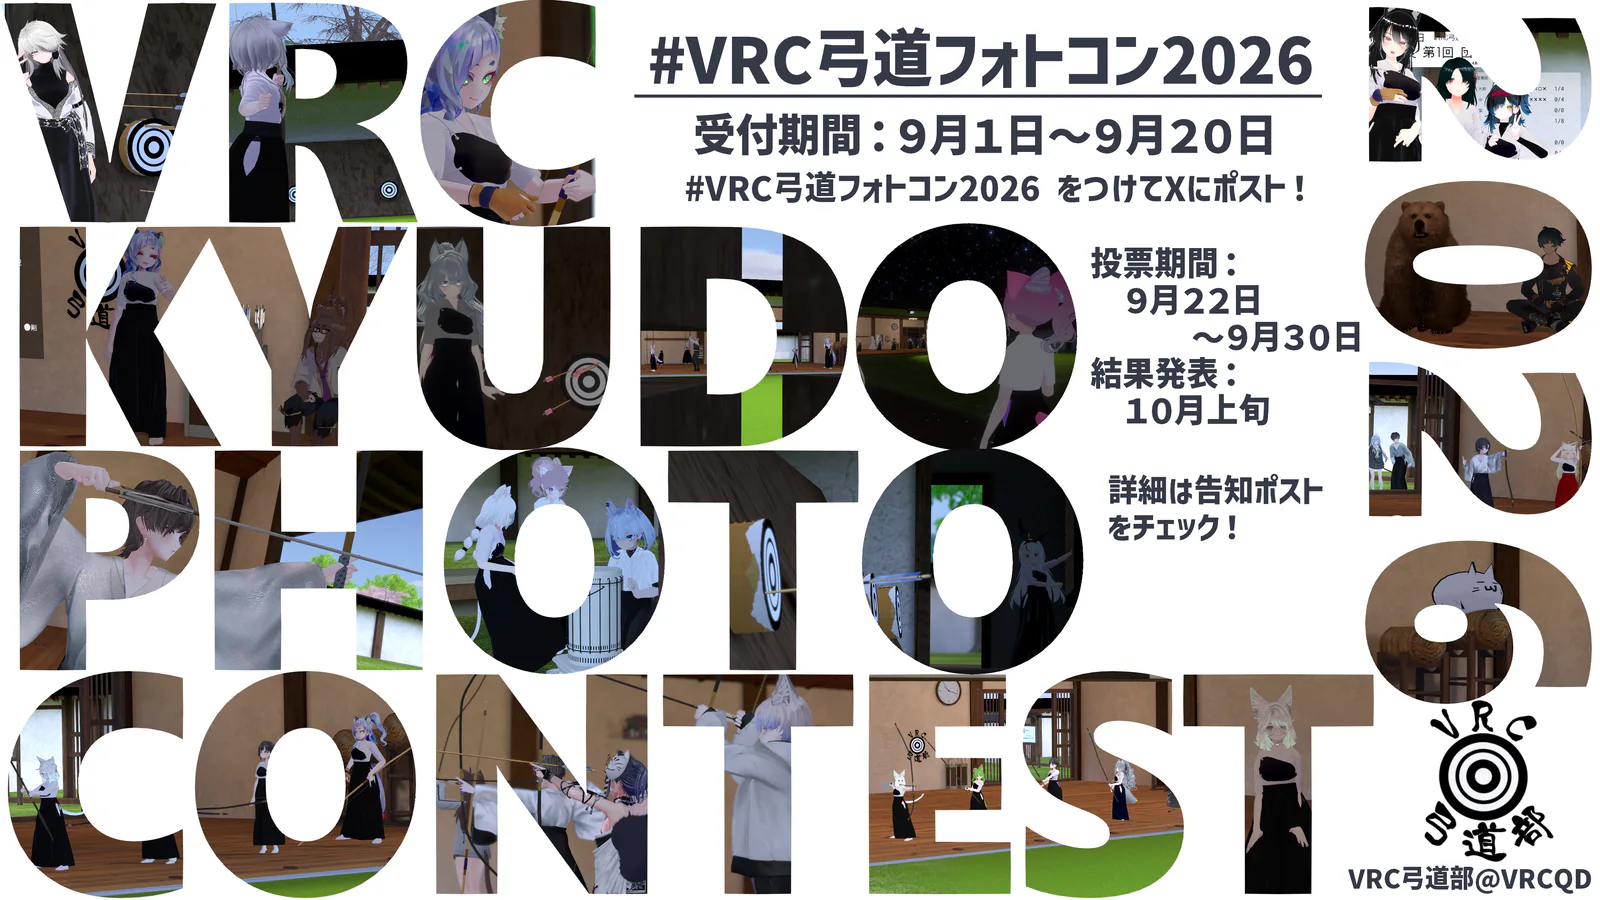
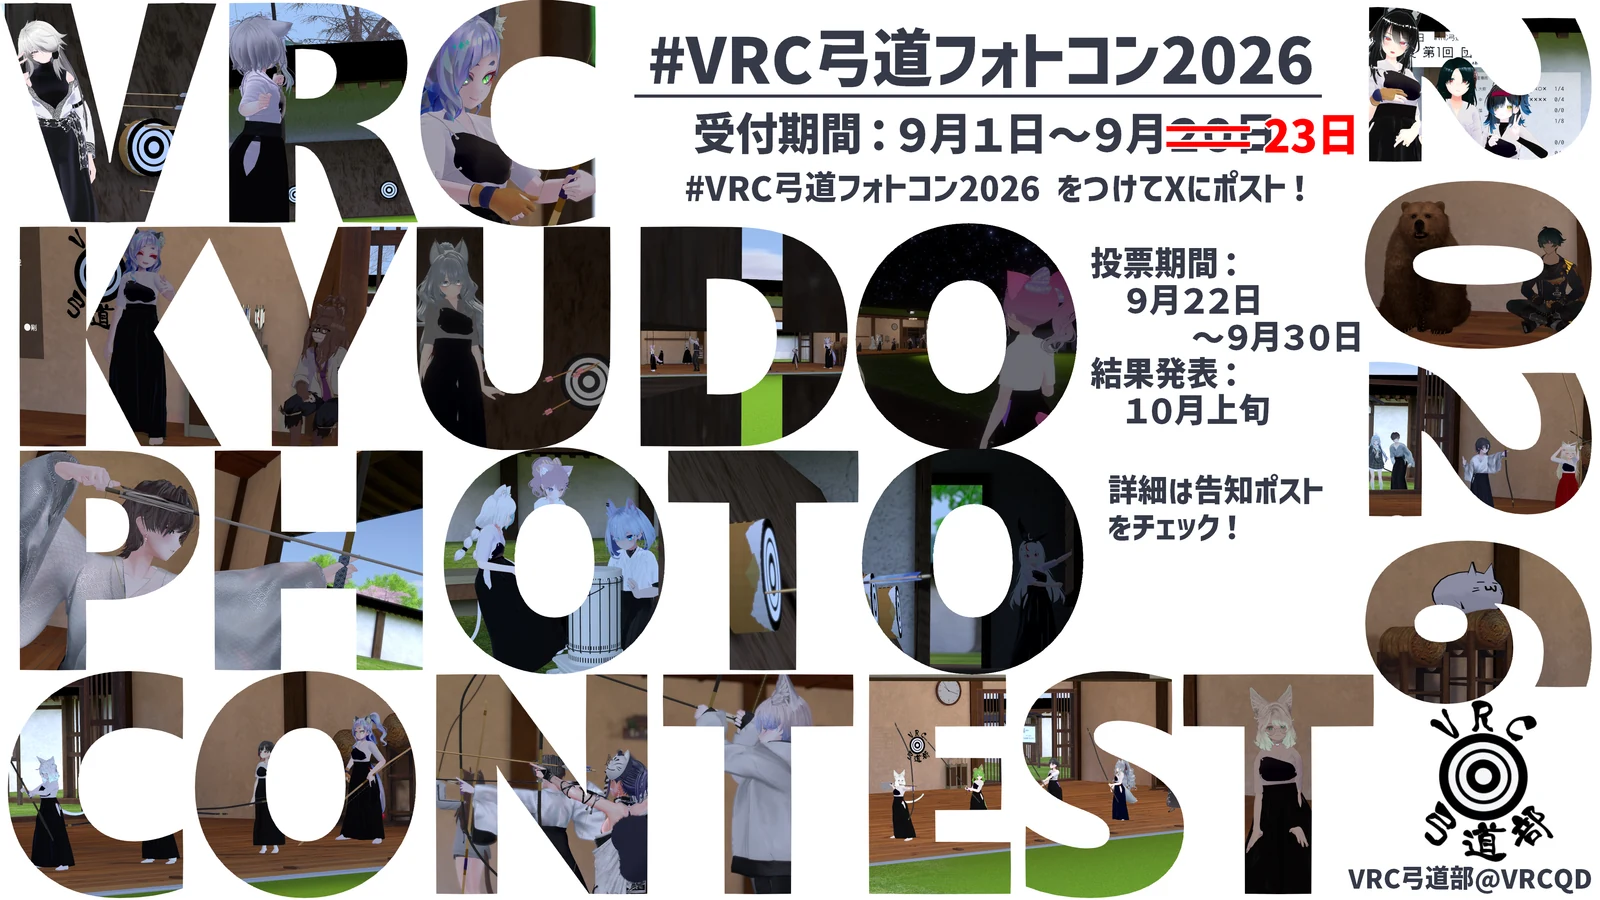
Replace main visual with optimized deadline-extension artwork

Changed region(s): [[0.5625, 0.1244, 0.8438, 0.1867], [0.4375, 0.1244, 0.5312, 0.1867]]

diff --git a/index.html b/index.html
@@ -8,19 +8,19 @@
   <meta property="og:type" content="website">
   <meta property="og:site_name" content="VRC弓道フォトコン2026">
   <meta property="og:title" content="VRC弓道フォトコン2026">
-  <meta property="og:description" content="【9月20日更新】作品受付を9月23日23:59まで延長。投票は9月24日00:10から9月30日まで（日本時間）。告知画像内の日程は変更前です。">
+  <meta property="og:description" content="【9月20日更新】作品受付を9月23日23:59まで延長。投票は9月24日00:10から9月30日まで（日本時間）。告知画像内の投票開始日は変更前です。">
   <meta property="og:url" content="https://puchiryuuvrc.github.io/QDPhoto2026-Pages/">
-  <meta property="og:image" content="https://puchiryuuvrc.github.io/QDPhoto2026-Pages/assets/social-card-2026.jpg">
+  <meta property="og:image" content="https://puchiryuuvrc.github.io/QDPhoto2026-Pages/assets/social-card-2026.jpg?v=20260920-main03">
   <meta property="og:image:type" content="image/jpeg">
   <meta property="og:image:width" content="1200">
   <meta property="og:image:height" content="630">
-  <meta property="og:image:alt" content="VRC弓道フォトコン2026の変更前の告知画像。現在の締切は9月23日23:59、投票開始は9月24日00:10（日本時間）。">
+  <meta property="og:image:alt" content="VRC弓道フォトコン2026の締切延長告知画像。画像内の投票開始日は変更前です。現在の締切は9月23日23:59、投票開始は9月24日00:10（日本時間）。">
   <meta name="twitter:card" content="summary_large_image">
   <meta name="twitter:site" content="@VRCQD">
   <meta name="twitter:title" content="VRC弓道フォトコン2026">
-  <meta name="twitter:description" content="【9月20日更新】作品受付を9月23日23:59まで延長。投票は9月24日00:10から9月30日まで（日本時間）。告知画像内の日程は変更前です。">
-  <meta name="twitter:image" content="https://puchiryuuvrc.github.io/QDPhoto2026-Pages/assets/social-card-2026.jpg">
-  <meta name="twitter:image:alt" content="VRC弓道フォトコン2026の変更前の告知画像。現在の締切は9月23日23:59、投票開始は9月24日00:10（日本時間）。">
+  <meta name="twitter:description" content="【9月20日更新】作品受付を9月23日23:59まで延長。投票は9月24日00:10から9月30日まで（日本時間）。告知画像内の投票開始日は変更前です。">
+  <meta name="twitter:image" content="https://puchiryuuvrc.github.io/QDPhoto2026-Pages/assets/social-card-2026.jpg?v=20260920-main03">
+  <meta name="twitter:image:alt" content="VRC弓道フォトコン2026の締切延長告知画像。画像内の投票開始日は変更前です。現在の締切は9月23日23:59、投票開始は9月24日00:10（日本時間）。">
   <title>VRC弓道フォトコン2026</title>
   <meta name="description" content="VRC弓道フォトコン2026の公式案内ページです。作品受付は9月23日23:59まで延長、投票は9月24日00:10開始（日本時間）。">
   <link rel="icon" type="image/png" href="assets/vrcqd-logo.png">
@@ -45,11 +45,11 @@
       <h2 id="scheduleUpdateTitle">【9月20日更新】募集締切・投票開始を変更しました</h2>
       <p>作品受付を<strong>9月23日 23:59まで延長</strong>します。投票は<strong>9月24日 00:10から</strong>開始します（いずれも日本時間）。投票締切の9月30日は変更ありません。</p>
       <p>時刻訂正：受付締切の<del>9月23日 23:39</del>は<strong>9月23日 23:59</strong>の誤りでした。23:59中の受付を確保し、締切後の画像準備時間を設けるため、投票開始を<del>9月24日 00:00</del>から<strong>9月24日 00:10</strong>へ変更しました。</p>
-      <p>下の告知画像には変更前の日程が記載されています。最新の日程は、このお知らせと画像下の開催スケジュールをご確認ください。</p>
+      <p>下の告知画像は締切延長版に差し替えました。画像内の投票開始日「9月22日」は変更前の日程です。最新の日程は、このお知らせと画像下の開催スケジュールをご確認ください。</p>
     </section>
-    <section class="hero-image" aria-label="変更前のメイン告知画像">
-      <img src="assets/main-visual-2026.webp" alt="変更前のVRC弓道フォトコン告知画像。最新の締切は9月23日23:59、投票開始は9月24日00:10（日本時間）。" width="1600" height="900" decoding="async" fetchpriority="high" aria-describedby="originalAnnouncementCaption">
-      <p class="hero-caption" id="originalAnnouncementCaption">※変更前の告知画像です。募集締切・投票開始は以下のとおり変更しました。</p>
+    <section class="hero-image" aria-label="締切延長版のメイン告知画像">
+      <img src="assets/main-visual-2026.webp?v=20260920-main03" alt="締切を9月23日へ延長したVRC弓道フォトコン告知画像。画像内の投票開始日は変更前です。最新の締切は9月23日23:59、投票開始は9月24日00:10（日本時間）。" width="1600" height="900" decoding="async" fetchpriority="high" aria-describedby="originalAnnouncementCaption">
+      <p class="hero-caption" id="originalAnnouncementCaption">※画像内の投票開始日「9月22日」は変更前です。実際の募集締切は9月23日23:59、投票開始は9月24日00:10（日本時間）です。</p>
     </section>
 
     <section class="grid three schedule" aria-label="開催スケジュール">
